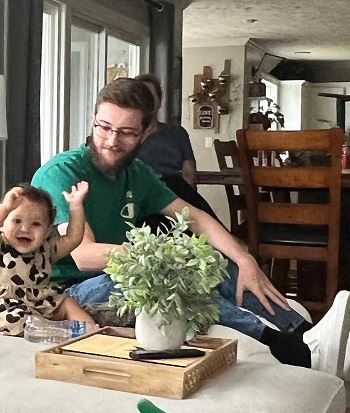
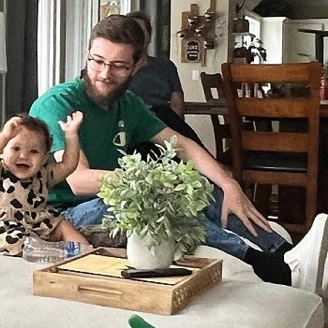
refined the photo in the About Me section, and deleted commented code

diff --git a/assets/CSS/style.css b/assets/CSS/style.css
@@ -58,38 +58,16 @@ body{
 }
 
 .about-me .pic{
-    width: 350px;
-    height: 413px;
+    width: 328px;
+    height: 328px;
     background-image: url("../../assets/images/down.jpg");
     display: inline-flex;
     background-color: transparent;
 }
 
 .about-me .pic:hover{
-    background-image: url(../../assets/images/up.jpg);
+    background-image: url("../../assets/images/up.jpg");
 }
-
-/* img{
-    max-width: 40vw;
-    max-height: 35vh;
-} */
-
-/* .pic{
-    width: 40vw;
-    height: 35vh;
-    position: relative;
-    display: inline;
-}
-
-.pic .up{
-    display: none;
-    position: relative;
-    z-index: 99;
-}
-
-.pic:hover .up{
-    display:inline;
-} */
 
 #project-1{
     display: flex;

diff --git a/index.html b/index.html
@@ -22,10 +22,7 @@
 <body>
     <section class="about-me">
         <h2 >About Me</h2>
-        <div class="pic">
-          <!-- <img src="assets/images/down.JPG" alt="Photo of myself">
-          <img class="up" src="assets/images/up.JPG" alt="Photo of myself with hands up" >   -->
-        </div>
+        <div class="pic"></div>
         <p>Lorem, ipsum dolor sit amet consectetur adipisicing elit. Expedita, voluptatum? Quia accusantium numquam adipisci aperiam. Maxime nam tempore dolores reiciendis veritatis odio, error ipsa architecto doloribus voluptatibus, impedit, accusantium cum?</p>
     </section>
 
